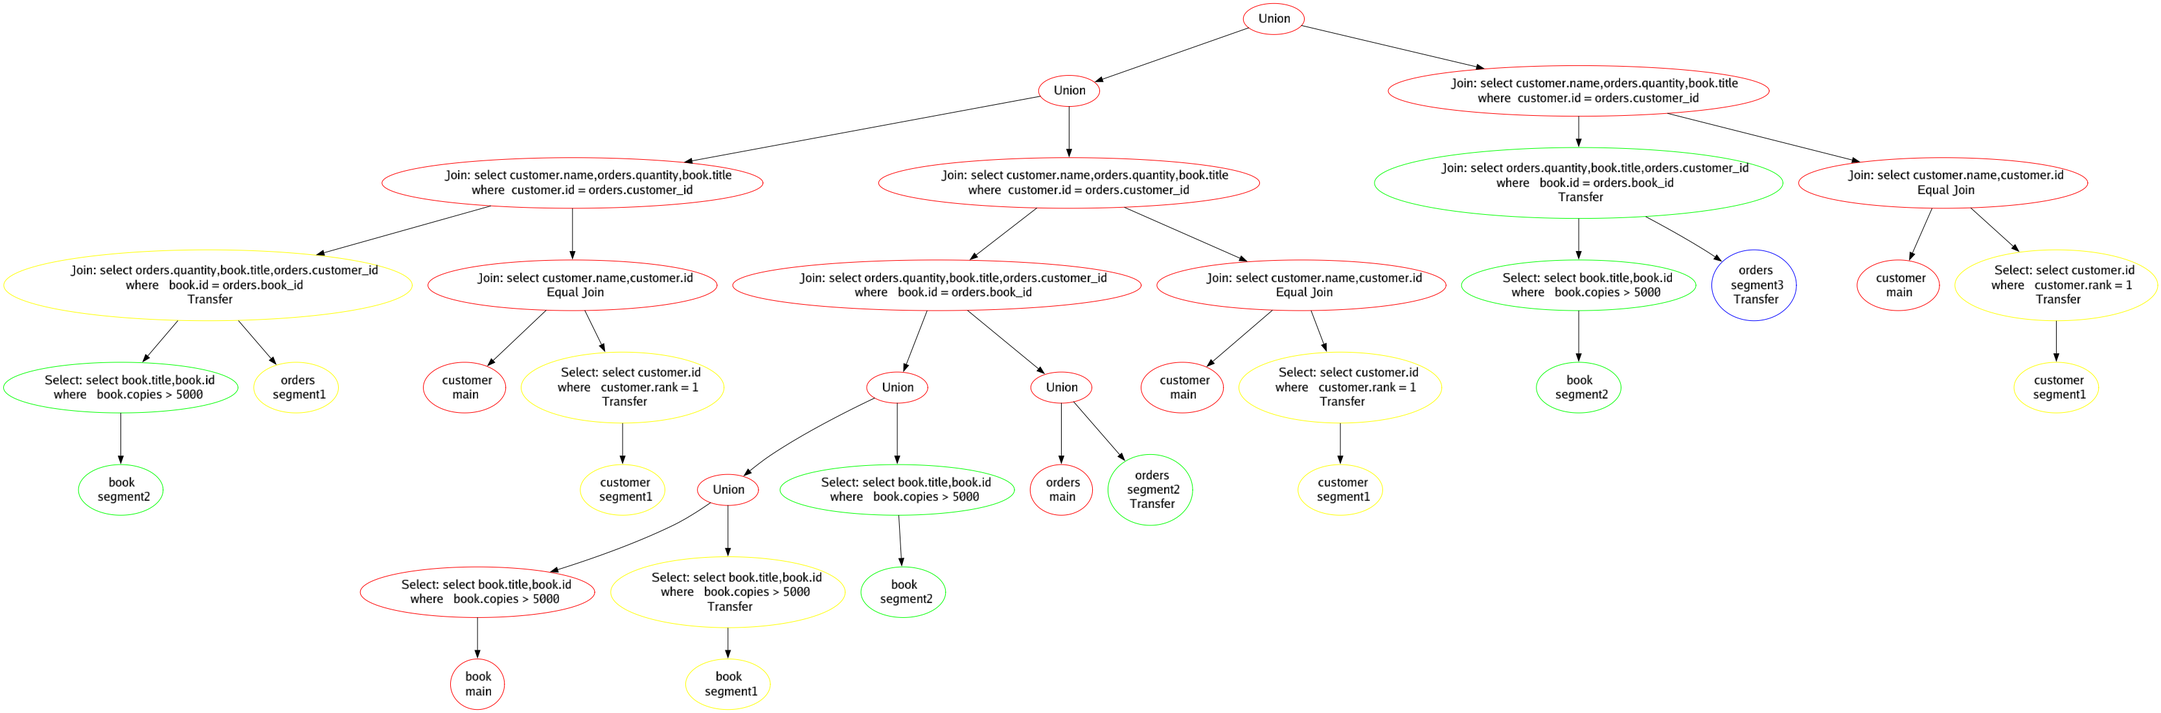
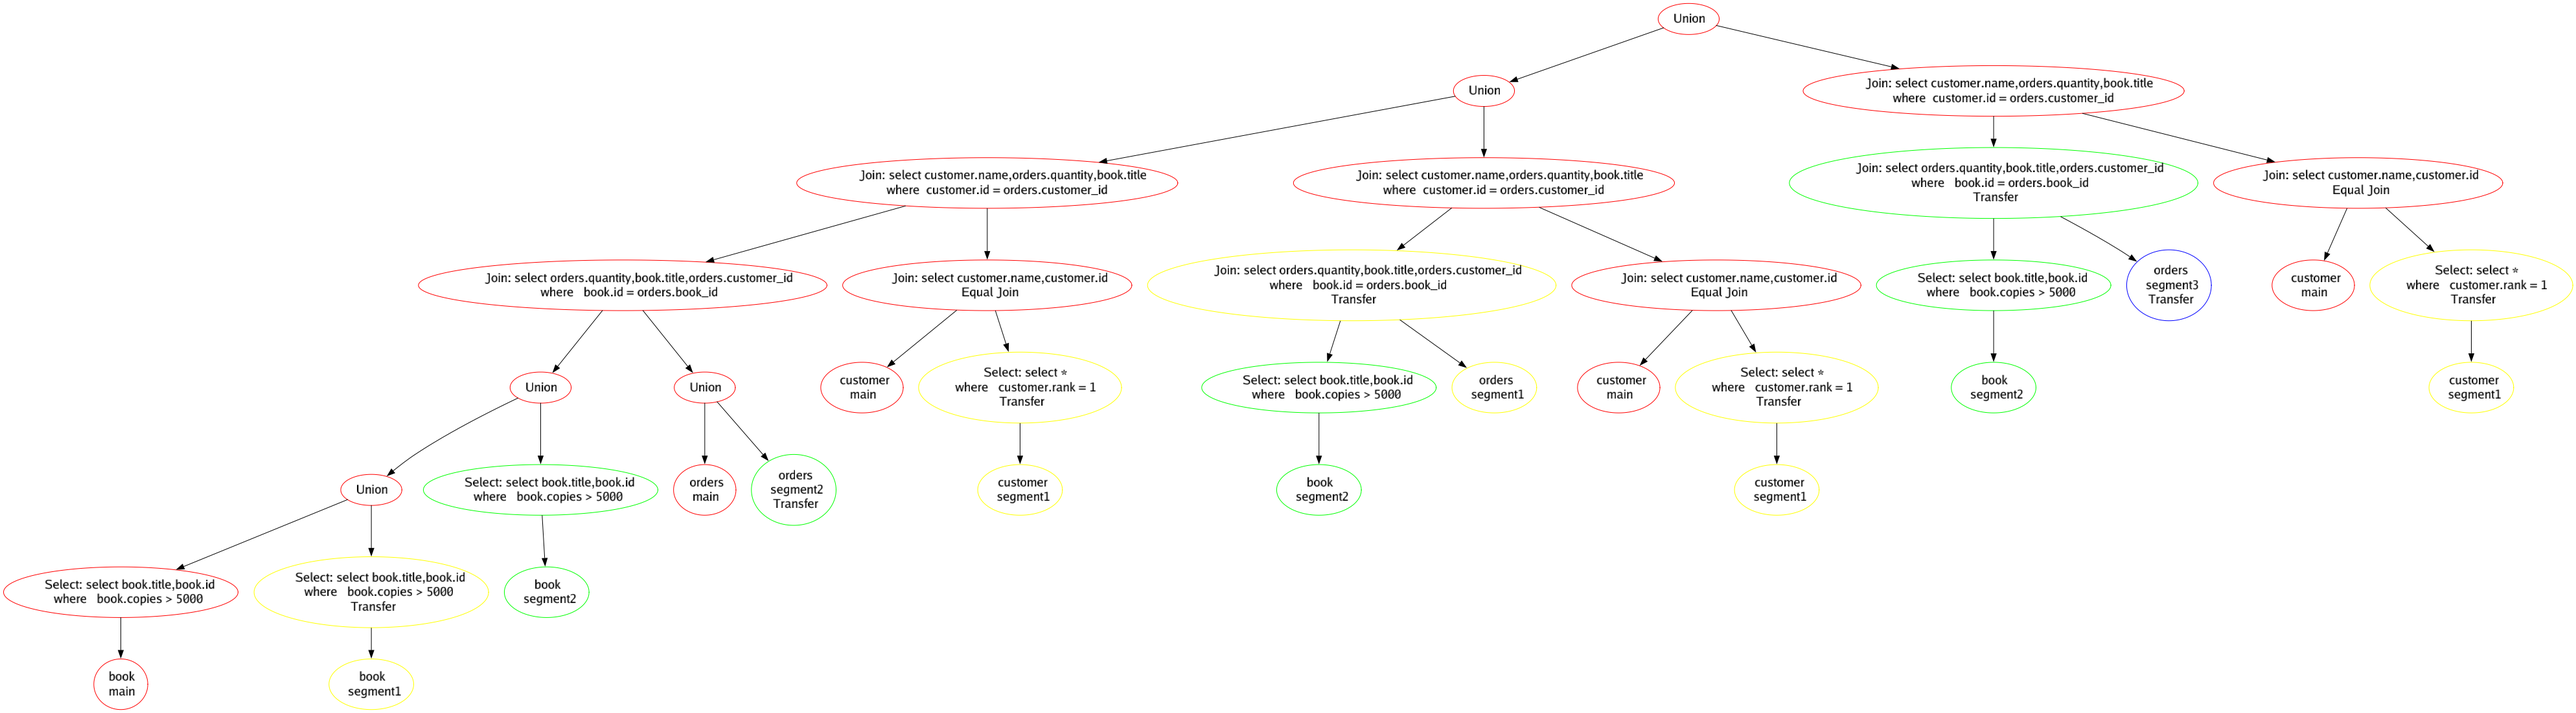
fix join rename

diff --git a/optimizer/rule_column_prune.go b/optimizer/rule_column_prune.go
@@ -1,6 +1,7 @@
 package optimizer
 
 import (
+	"fmt"
 	"strconv"
 	"strings"
 
@@ -269,6 +270,7 @@ func prune_columns(pt *parser.PlanTree, beginNode int64, parentCols string, pare
 		for _, col := range usedCols {
 			// fmt.Println("col=", col)
 			// col = strings.ReplaceAll(col, " ", "")
+			leftEqualCol := ""
 			for _, lcol := range leftRelCols {
 				// fmt.Println("lcol=", lcol)
 
@@ -310,13 +312,17 @@ func prune_columns(pt *parser.PlanTree, beginNode int64, parentCols string, pare
 						}
 					}
 					// fmt.Println("node.ExecStmtWhere (after) = ", node.ExecStmtWhere)
-
+					leftEqualCol = lcol
 					break
 				}
 			}
+
 			for _, rcol := range rightRelCols {
 				// fmt.Println("rcol=", rcol)
 				tableCol := strings.Split(rcol, ".")
+				if leftEqualCol == rcol { // means vertical fragments' primary key, skip it
+					continue
+				}
 				if col == rcol || col == tableCol[1] { // col contains tableName or not
 					// fmt.Println("right equal!")
 					subsetRight += rcol + ","
@@ -365,6 +371,7 @@ func prune_columns(pt *parser.PlanTree, beginNode int64, parentCols string, pare
 				}
 			}
 		}
+		fmt.Println("colsMap = ", colsMap)
 		subsetLeft = strings.TrimSuffix(subsetLeft, ",")
 		subsetRight = strings.TrimSuffix(subsetRight, ",")
 
